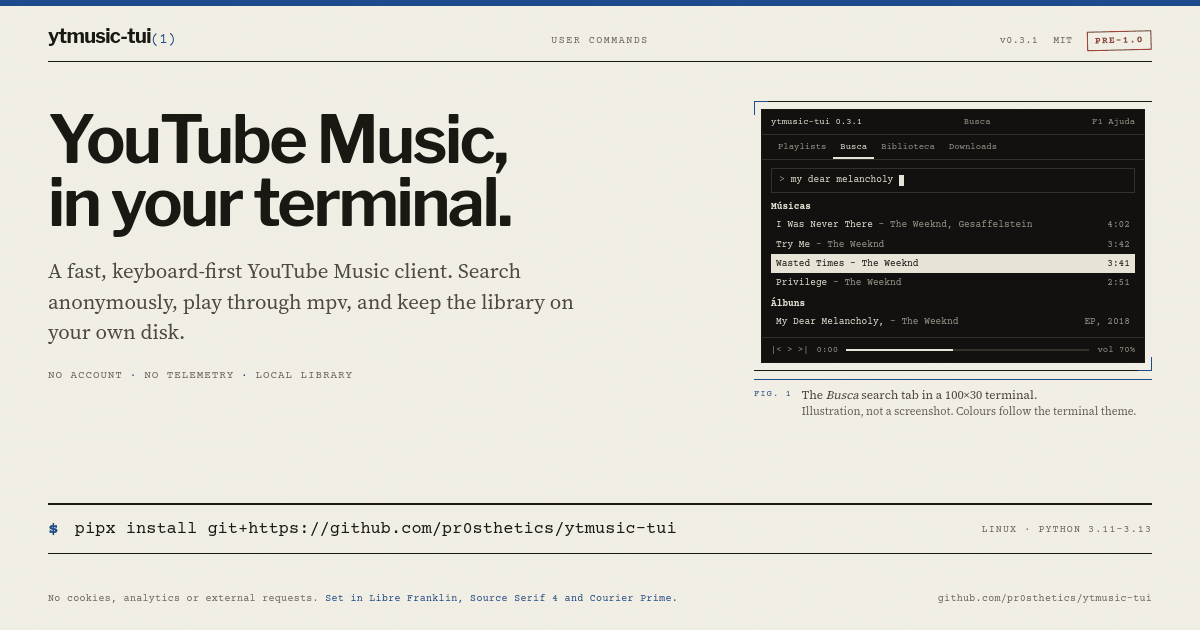
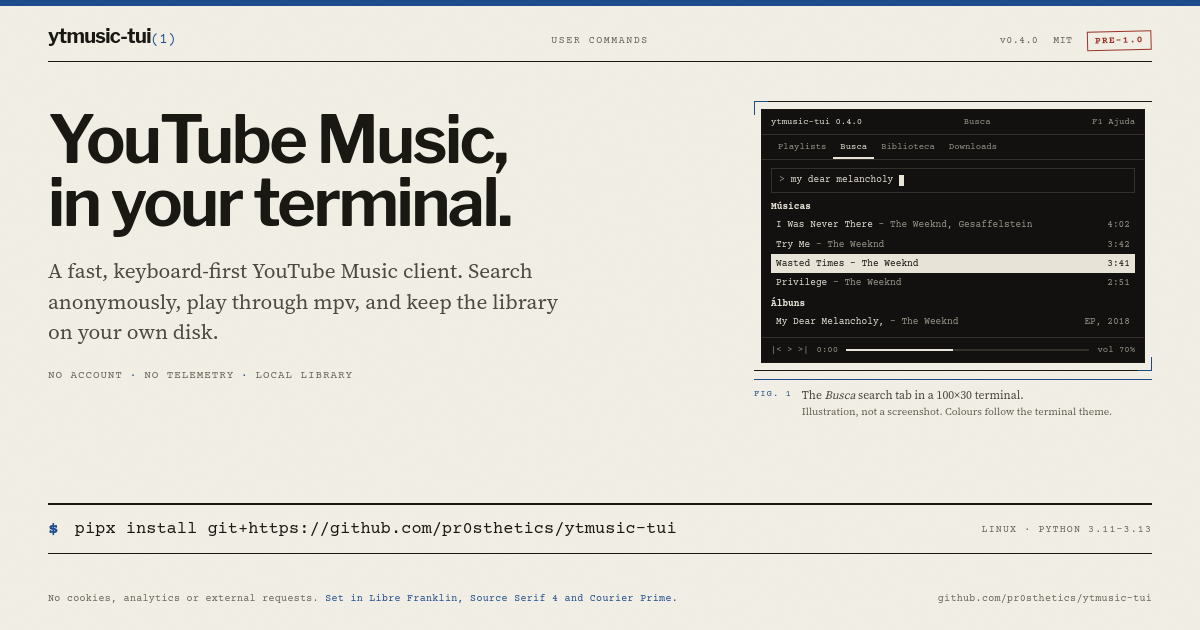
docs(site): atualiza versão e contagem de testes para 0.4.0

Changed region(s): [[0.0308, 0.4222, 0.4625, 0.5429], [0.6783, 0.6032, 0.9558, 0.6635]]

diff --git a/site/index.html b/site/index.html
@@ -40,7 +40,7 @@
     "url": "https://pr0sthetics.github.io/ytmusic-tui/",
     "codeRepository": "https://github.com/pr0sthetics/ytmusic-tui",
     "license": "https://github.com/pr0sthetics/ytmusic-tui/blob/main/LICENSE",
-    "softwareVersion": "0.3.1",
+    "softwareVersion": "0.4.0",
     "operatingSystem": "Linux",
     "applicationCategory": "MultimediaApplication",
     "isAccessibleForFree": true,
@@ -61,7 +61,7 @@
 
   <!--
     VERSION AND COUNTS — single source of truth.
-    Current release: v0.3.1 (2026-10-19) · tests: 641 automated / 637 offline.
+    Current release: v0.4.0 (2026-10-27) · tests: 716 automated / 712 offline.
     On a release, update: this block, the running head, the synopsis if needed,
     the diagnostics ledger, meta/OG/JSON-LD, the footer, robots/sitemap only if
     the domain changes. Nothing is fetched at runtime.
@@ -73,7 +73,7 @@
         <a class="wordmark" href="#top">ytmusic-tui<span class="wordmark-sect">(1)</span><span class="sr-only"> home</span></a>
         <p class="running-title">User Commands</p>
         <div class="running-meta">
-          <a class="version" href="https://github.com/pr0sthetics/ytmusic-tui/releases/tag/v0.3.1" target="_blank" rel="noopener noreferrer">v0.3.1 <span class="version-date">· 2026-10-19</span><span class="sr-only"> release notes (opens in a new tab)</span></a>
+          <a class="version" href="https://github.com/pr0sthetics/ytmusic-tui/releases/tag/v0.4.0" target="_blank" rel="noopener noreferrer">v0.4.0 <span class="version-date">· 2026-10-27</span><span class="sr-only"> release notes (opens in a new tab)</span></a>
           <a class="repo-link" href="https://github.com/pr0sthetics/ytmusic-tui" target="_blank" rel="noopener noreferrer">GitHub<span class="sr-only"> repository (opens in a new tab)</span></a>
           <details class="mmenu">
             <summary>Contents</summary>
@@ -140,7 +140,7 @@
             <div class="term" role="img" aria-label="Illustration of the ytmusic-tui search tab. The search field contains “my dear melancholy”. Nine songs and two albums are listed; Wasted Times is selected. The player bar shows 0:00 and volume 70 percent.">
               <div class="terminal-visual" aria-hidden="true">
                 <div class="tbar">
-                  <span class="tbar-brand">ytmusic-tui 0.3.1</span>
+                  <span class="tbar-brand">ytmusic-tui 0.4.0</span>
                   <span class="tbar-view">Busca</span>
                   <span class="tbar-help">F1 Ajuda</span>
                 </div>
@@ -299,7 +299,7 @@
               <div class="term dterm" role="img" aria-label="Illustration of the ytmusic-tui Downloads tab. Four rows show Call Out My Name completed, Try Me downloading at 42.7 percent, Privilege queued, and Hurt You failed. The footer lists c to cancel, C to clear completed, r to resume, and i for error details.">
                 <div class="terminal-visual" aria-hidden="true">
                   <div class="tbar">
-                    <span class="tbar-brand">ytmusic-tui 0.3.1</span>
+                    <span class="tbar-brand">ytmusic-tui 0.4.0</span>
                     <span class="tbar-view">Downloads</span>
                     <span class="tbar-help">F1 Ajuda</span>
                   </div>
@@ -501,8 +501,8 @@ ytmusic-tui doctor</code></pre>
         </header>
         <div class="section-body">
           <dl class="ledger">
-            <div><dt>Release</dt><dd>v0.3.1 <span>2026-10-19</span></dd></div>
-            <div><dt>Tests</dt><dd>641 automated <span>637 run offline by default</span></dd></div>
+            <div><dt>Release</dt><dd>v0.4.0 <span>2026-10-27</span></dd></div>
+            <div><dt>Tests</dt><dd>716 automated <span>712 run offline by default</span></dd></div>
             <div><dt>CI</dt><dd>Python 3.11 and 3.13 <span>pip-audit, packaging and a weekly contract check</span></dd></div>
             <div><dt>License</dt><dd>MIT <span>© 2026 Eeyore</span></dd></div>
             <div><dt>Distribution</dt><dd>GitHub <span>not on PyPI yet</span></dd></div>
@@ -611,7 +611,7 @@ ytmusic-tui doctor</code></pre>
         <div class="colophon-brand">
           <a class="wordmark" href="#top">ytmusic-tui<span class="wordmark-sect">(1)</span><span class="sr-only"> home</span></a>
           <p>A terminal client for YouTube Music. Local library, anonymous search, no browser runtime.</p>
-          <p class="colophon-version">v0.3.1 · 2026-10-19</p>
+          <p class="colophon-version">v0.4.0 · 2026-10-27</p>
         </div>
         <nav class="fcol" aria-label="Product">
           <h3>Product</h3>

diff --git a/site/assets/og.source.html b/site/assets/og.source.html
@@ -81,7 +81,7 @@
   <header class="header">
     <div class="wordmark">ytmusic-tui<span>(1)</span></div>
     <div class="running">User Commands</div>
-    <div class="meta"><span>v0.3.1</span><span>MIT</span><span class="stamp">Pre-1.0</span></div>
+    <div class="meta"><span>v0.4.0</span><span>MIT</span><span class="stamp">Pre-1.0</span></div>
   </header>
 
   <main class="main">
@@ -94,7 +94,7 @@
     <figure>
       <div class="plate">
         <div class="term" aria-hidden="true">
-          <div class="tbar"><b>ytmusic-tui 0.3.1</b><span>Busca</span><span>F1 Ajuda</span></div>
+          <div class="tbar"><b>ytmusic-tui 0.4.0</b><span>Busca</span><span>F1 Ajuda</span></div>
           <div class="tabs"><span>Playlists</span><span class="on">Busca</span><span>Biblioteca</span><span>Downloads</span></div>
           <div class="search"><span>&gt;</span> my dear melancholy <span class="cursor"></span></div>
           <div class="rows">

diff --git a/site/README.md b/site/README.md
@@ -60,7 +60,7 @@ The authoritative block is the HTML comment near the top of `index.html` (`VERSI
 - the running-head version link (`.version`), its release URL, and the colophon version;
 - the diagnostics ledger (`Release`, `Tests`, `CI`, `License`, `Distribution`);
 - `meta`, Open Graph, Twitter and JSON-LD copy if they mention a release;
-- JSON-LD `softwareVersion` (currently `"0.3.1"`);
+- JSON-LD `softwareVersion` (currently `"0.4.0"`);
 - the version in the Open Graph source and the exported PNG.
 
 Nothing is fetched from the GitHub API at runtime, and there are no star counters or analytics.
